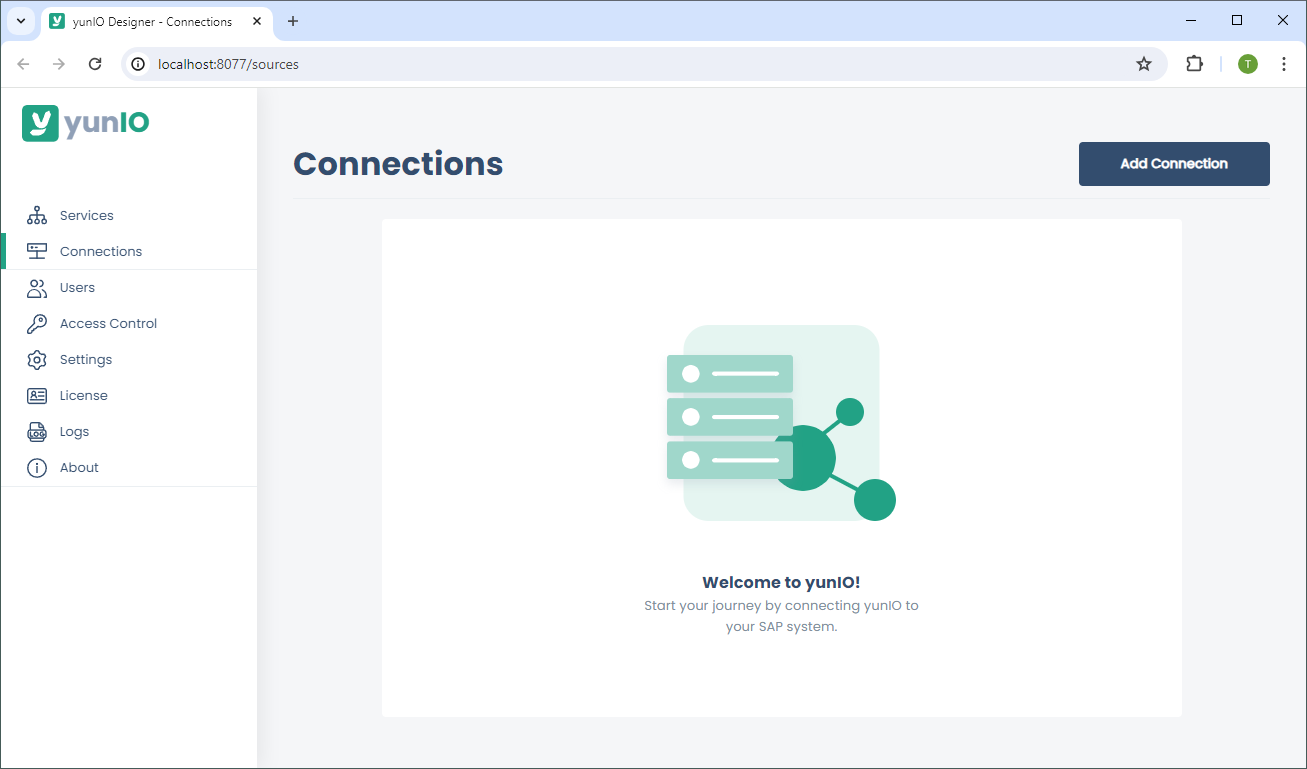
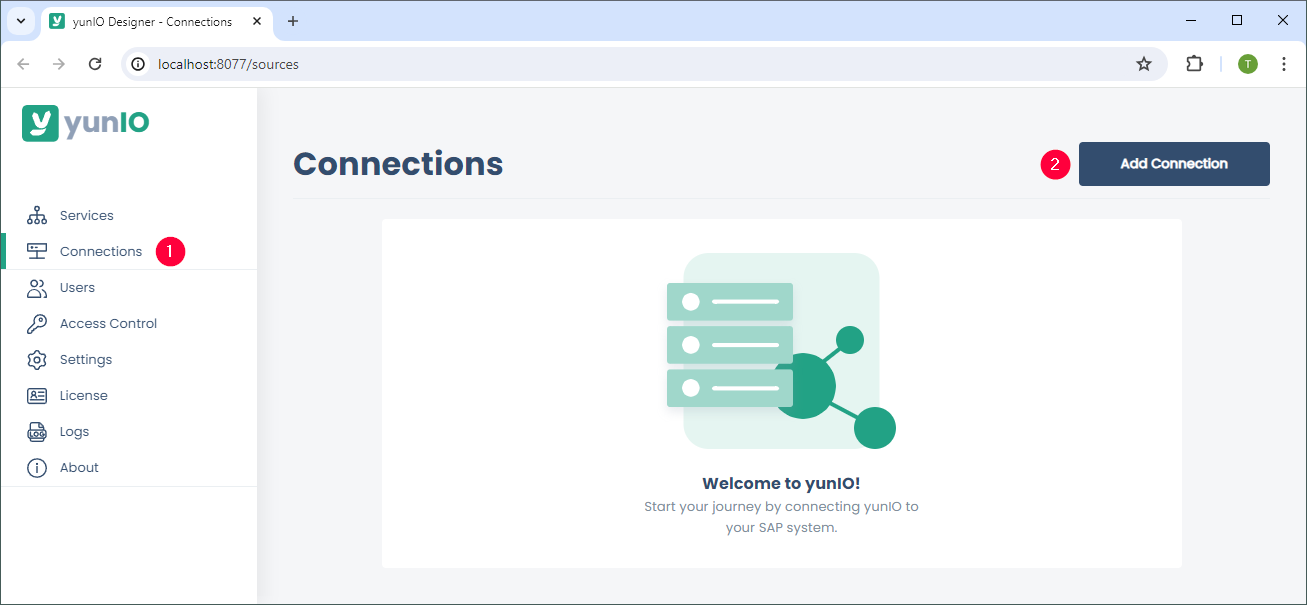
getting started

diff --git a/projects/yunio/docs/getting-started.md b/projects/yunio/docs/getting-started.md
@@ -12,6 +12,10 @@ hide:
 
 </div>
 
+
+<swagger-ui src="http://localhost:8002/assets/files/yunio/KNA1.swagger.json"/>
+
+
 ### Installation
 
 1. [Download](https://theobald-software.com/en/download-trial/){ data-preview } a 30 days trial version of yunIO.
@@ -26,48 +30,111 @@ For more information, see [Installation](documentation/setup/installation.md/#se
 
 ### Connect to SAP
 
+Before connecting to SAP for the first time, set up an SAP dialog user with the necessary [SAP Authorization Objects](documentation/setup-in-sap/sap-authority-objects.md/#sap-authorization-profiles).
+
 1. Navigate to the :yunio-nav-connections: *Connections* menu in the left side navigation of the Designer.
-2. Click **[Add Connection]** (1) to create a new SAP connection.<br>
+2. Click **[Add Connection]** to create a new SAP connection.<br>
+3. Enter the connection information of your SAP system in the subsection *System*.<br>
+4. Enter the SAP credentials of the SAP dialog user in the subsection *Authentication*.
+5. Click **[Test Connection]** to validate the connection parameters. A window with a status message opens.
+6. Click **[Save]** to save the connection settings. 
+
+![yunIO-connection](./assets/images/yunio/getting-started/yunio-connections.gif){:class="img-responsive" style="border:1px solid black" }
+
+For more information on establishing an SAP connection, see [SAP Connection](./documentation/sap-connection/index.md).
+
+<!---
 ![web-ui](./assets/images/yunio/getting-started/add-connection.png){:class="img-responsive"}
-3. Enter the connection information of your SAP system under *System* (2).<br>
-![yunIO-connection](./assets/images/yunio/yunio-connections.png){:class="img-responsive" width="750px" }
-4. Enter your SAP credentials under *Authentication* (3).
-5. To validate the connection parameters, click **[Test Connection]** (4). A window with a status message opens.
-6. Click **[Save]** to save the connection settings. <br>
+![yunIO-connection](./assets/images/yunio/getting-started/yunio-connections.png){:class="img-responsive"}
+-->
 
-For more detailed information on establishing an SAP connection, see [SAP Connection](./sap-connection).
+### Create a Service
 
-### Creating a Service
+1. Navigate to the :yunio-nav-services: *Services* menu in the left side navigation of the Designer.
+2. Click **[Add Service]** to create a new web service.
+3. Enter a name and a short description of the service. 
+4. Select an existing SAP connection under **Connection**.
+5. Select one of the following {{ components }} under **Type**: 
+	- [{{ bapi }}](./documentation/function-modules-and-bapis/index.md) to execute BAPIs and Function Modules.
+	- [{{ table }}](./documentation/table-and-views/index.md) to extract SAP ABAP reports.
+	- [{{ transaction }}](./documentation/table-and-views/index.md) to extract data from SAP tables and views.
+	- [{{ report }}](./documentation/table-and-views/index.md) to execute SAP transactions without SAP GUI interaction.
+6. Click **[Save and edit]**.
+The settings of the selected {{ component }} open and the service is now available in the :yunio-nav-services: *Services* menu of yunIO.
 
-In the *Services* menu you can create new web services and edit, run or delete existing web services.
+![yunIO-service](./assets/images/yunio/getting-started/yunio-services.gif){:class="img-responsive" style="border:1px solid black" }
 
-1. To create a new service, click **[Add Service]** (1).<br>
-![yunIO-Services](./assets/images/yunio/yunio-services.png){:class="img-responsive" }
-2. Enter a name for the service and choose an existing SAP connection under *General* (2).<br>
+Click :yunio-edit-general: to edit the name, description and source of an existing service.<br>
+Click :yunio-edit: to edit the {{ component }} settings of the service. <br>
+
+!!! tip "Tip: Follow the steps below to create a simple service that extracts customer master data from SAP"
+
+	1. [Create a service](#create-a-service) that uses the {{ component }} {{ table }}.
+	2. In the **Search SAP tables and views** menu, enter the name of the SAP standard table KNA1. Use wildcards ( * ) if needed.
+	3. Click **[Search]** to display the tables found in the SAP system.
+	4. Select KNA1 from the search results. The settings of the {{ component }} {{ table }} open automatically.
+	5. Optional: Select the table columns you want to extract. By default all columns are extracted. 
+	For more information on filter options and advanced settings, see [Documentation: Creating a Table Service](documentation/tables-and-views/creating-a-table-service.md/#settings).
+	6. Click **[Save]** to save the service.
+	
+	![yunIO-sample-service](./assets/images/yunio/getting-started/yunio-sample-service.gif){:class="img-responsive" style="border:1px solid black" }
+
+
+<!---
+![yunIO-new-service](./assets/images/yunio/yunio-services.png){:class="img-responsive" width="750px"}
 ![yunIO-new-service](./assets/images/yunio/create-table.png){:class="img-responsive" width="750px"}
-3. Optional: Add a short description for the service. 
-4. Choose an **Extraction Type** (3). yunIO offers the following options: *SAP Tables or Views*,*Function Modules* or *Transaction*. 
-5. Click **[Save and edit]**.<br>
-To set up the service, see [SAP Table or View](./documentation/table-and-views), [Function Module / BAPI](./documentation/bapis-and-function-modules), [Transactions](./documentation/transactions) or [Report](./documentation/report).
 
-To edit the name, description and source of an existing service, click the :yunio-edit-general:.<br>
-To edit the extraction type settings of the service, click :yunio-edit:. <br>
+yunIO offers the following features for reading and writing data from and to SAP:
 
-### How to run a Service
+|  {{ Component }}  |  Description   |  
+|----------|-------------|
+| [{{ bapi }}](./documentation/function-modules-and-bapis/index.md) | Execute BAPIs and Function Modules. |
+| [{{ table }}](./documentation/table-and-views/index.md) | Extract SAP ABAP reports. | 
+| [{{ transaction }}](./documentation/table-and-views/index.md) | Extract data from SAP tables and views. |
+| [{{ report }}](./documentation/table-and-views/index.md)  | Execute SAP transactions without SAP GUI interaction. |
+
+-->
+
+### Sample
+
+Follow the steps below to create a simple service that extracts customer master data from SAP:
+
+1. [Create a service](#create-a-service) that uses the {{ component }} {{ table }}.
+2. In the **Search SAP tables and views** menu, enter the name of the SAP standard table KNA1. Use wildcards ( * ) if needed.
+3. Click **[Search]** to display the tables found in the SAP system.
+4. Select KNA1 from the search results. The settings of the {{ component }} {{ table }} open automatically.
+5. Optional: Select the table columns you want to extract. By default all columns are extracted. 
+For more information on filter options and advanced settings, see [Documentation: Creating a Table Service](documentation/tables-and-views/creating-a-table-service.md/#settings).
+6. Click **[Save]** to save the service.
+	
+![yunIO-sample-service](./assets/images/yunio/getting-started/yunio-sample-service.gif){:class="img-responsive" style="border:1px solid black" }
+
+
+
+??? tip "Try it out!"
+	User: yunIOAdmin<br>
+	Password: yunIODemo.2021!
+	<swagger-ui src="http://localhost:8002/assets/files/yunio/KNA1.swagger.json"/>
+
+
+### Run a Service
 
 Web services created with yunIO can be integrated into all cloud applications that support REST API/Swagger (OpenAPI), e.g. Power Automate, Nintex, etc.
 
-- To test a service, trigger the URL of the service endpoint or run the service directly in yunIO (1), see [Testing a Service](./documentation/run-services#testing-a-service). 
-- To integrate a yunIO web service into a tool that supports Swagger/OpenAPI, copy or download the service definition (2), see [Integrating a Service](./documentation/run-services#integrating-a-service).
+Follow the steps below to testrun a service directly in yunIO:
 
+[Testing a Service](./documentation/run-services#testing-a-service). 
+
+
+Click :yunio-copy: or :yunio-download: to copy or download the service definition. 
+For more information on how to integrate yunIO web services into 3rd-party-tools, see [Documentation: Integrating a Service](./documentation/run-services#integrating-a-service).
+
+For more information about running services and passing parameters, see [Run Services](./documentation/run-services.md).
+
+
+<!---
 ![yunIO-Services](./assets/images/yunio/yunio-run-services.png){:class="img-responsive" }
-
-For more information about running services and passing parameters, see [Run Services](./documentation/run-services).
-
-User: help<br>
-Password: yunIO-Demo
-
-<swagger-ui src="http://localhost:8002/assets/files/yunio/KNA1.swagger.json"/>
+-->
 
 *****
 #### Related Links

diff --git a/projects/yunio/docs/documentation/introduction/index.md b/projects/yunio/docs/documentation/introduction/index.md
@@ -43,10 +43,10 @@ If yunIO is installed on a local server environment, a Gateway instance of your 
 yunIO offers the following {{ components }} to cover a wide range of integration scenarios.
 
 
-|  Functionality / SAP Objects  |  Description   |  
+|  {{ Component }}  |  Description   |  
 |----------|-------------|
-| [**Function Module / BAPI**](./bapis-and-function-modules.md) | Execute BAPIs and Function Modules. |
-| [**Report**](./report.md) | Extract SAP ABAP reports. | 
-| [**SAP Table or View**](./table-and-views.md) | Extract data from SAP tables and views. |
-| [**Transaction**](./transactions.md) | Execute SAP transactions without SAP GUI interaction. |
+| [{{ bapi }}](./bapis-and-function-modules.md) | Execute BAPIs and Function Modules. |
+| [{{ report }}](./report.md) | Extract SAP ABAP reports. | 
+| [{{ table }}](./table-and-views.md) | Extract data from SAP tables and views. |
+| [{{ transaction }}](./transactions.md) | Execute SAP transactions without SAP GUI interaction. |
 

diff --git a/includes/articles/authority-objects-sap-user-rights.md b/includes/articles/authority-objects-sap-user-rights.md
@@ -63,7 +63,7 @@ You can download the SAP profiles and upload them to your SAP system:
     If you still get an authorization error, ask SAP Basis to record an ST01-/ or SU53-authorization trace in SAP. This trace shows which authorizations objects are missing.
 
 ### General authorization objects
-The following objects are required to establish a connection to SAP. 
+The following authorization objects are required to establish a connection to SAP. 
 
 ``` title="Necessary SAP authorizations"
 S_RFC            RFC_TYPE=FUGR; RFC_NAME=SYST; ACTVT=16
